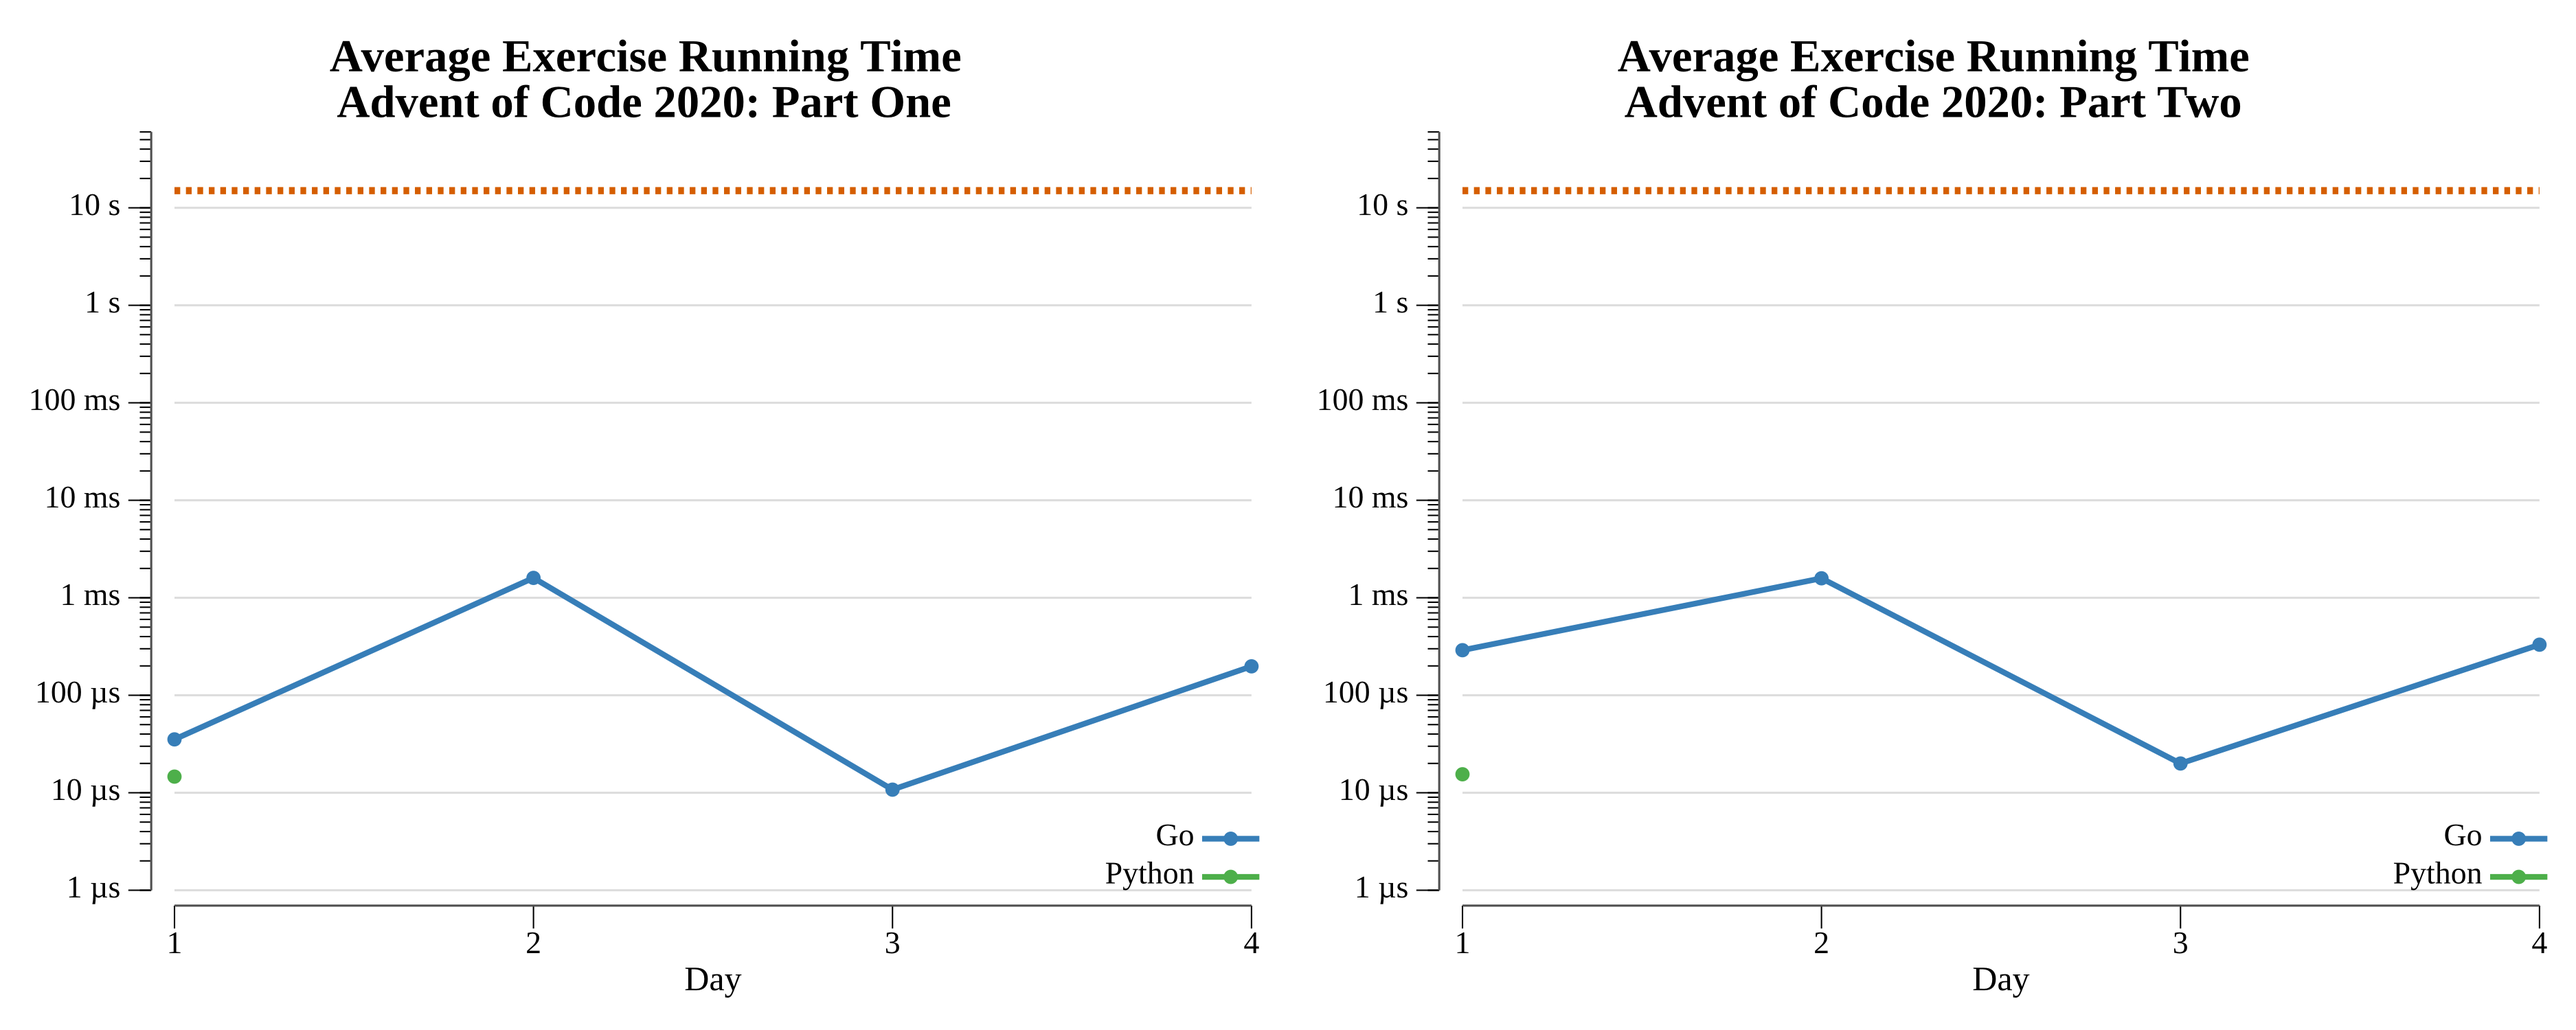
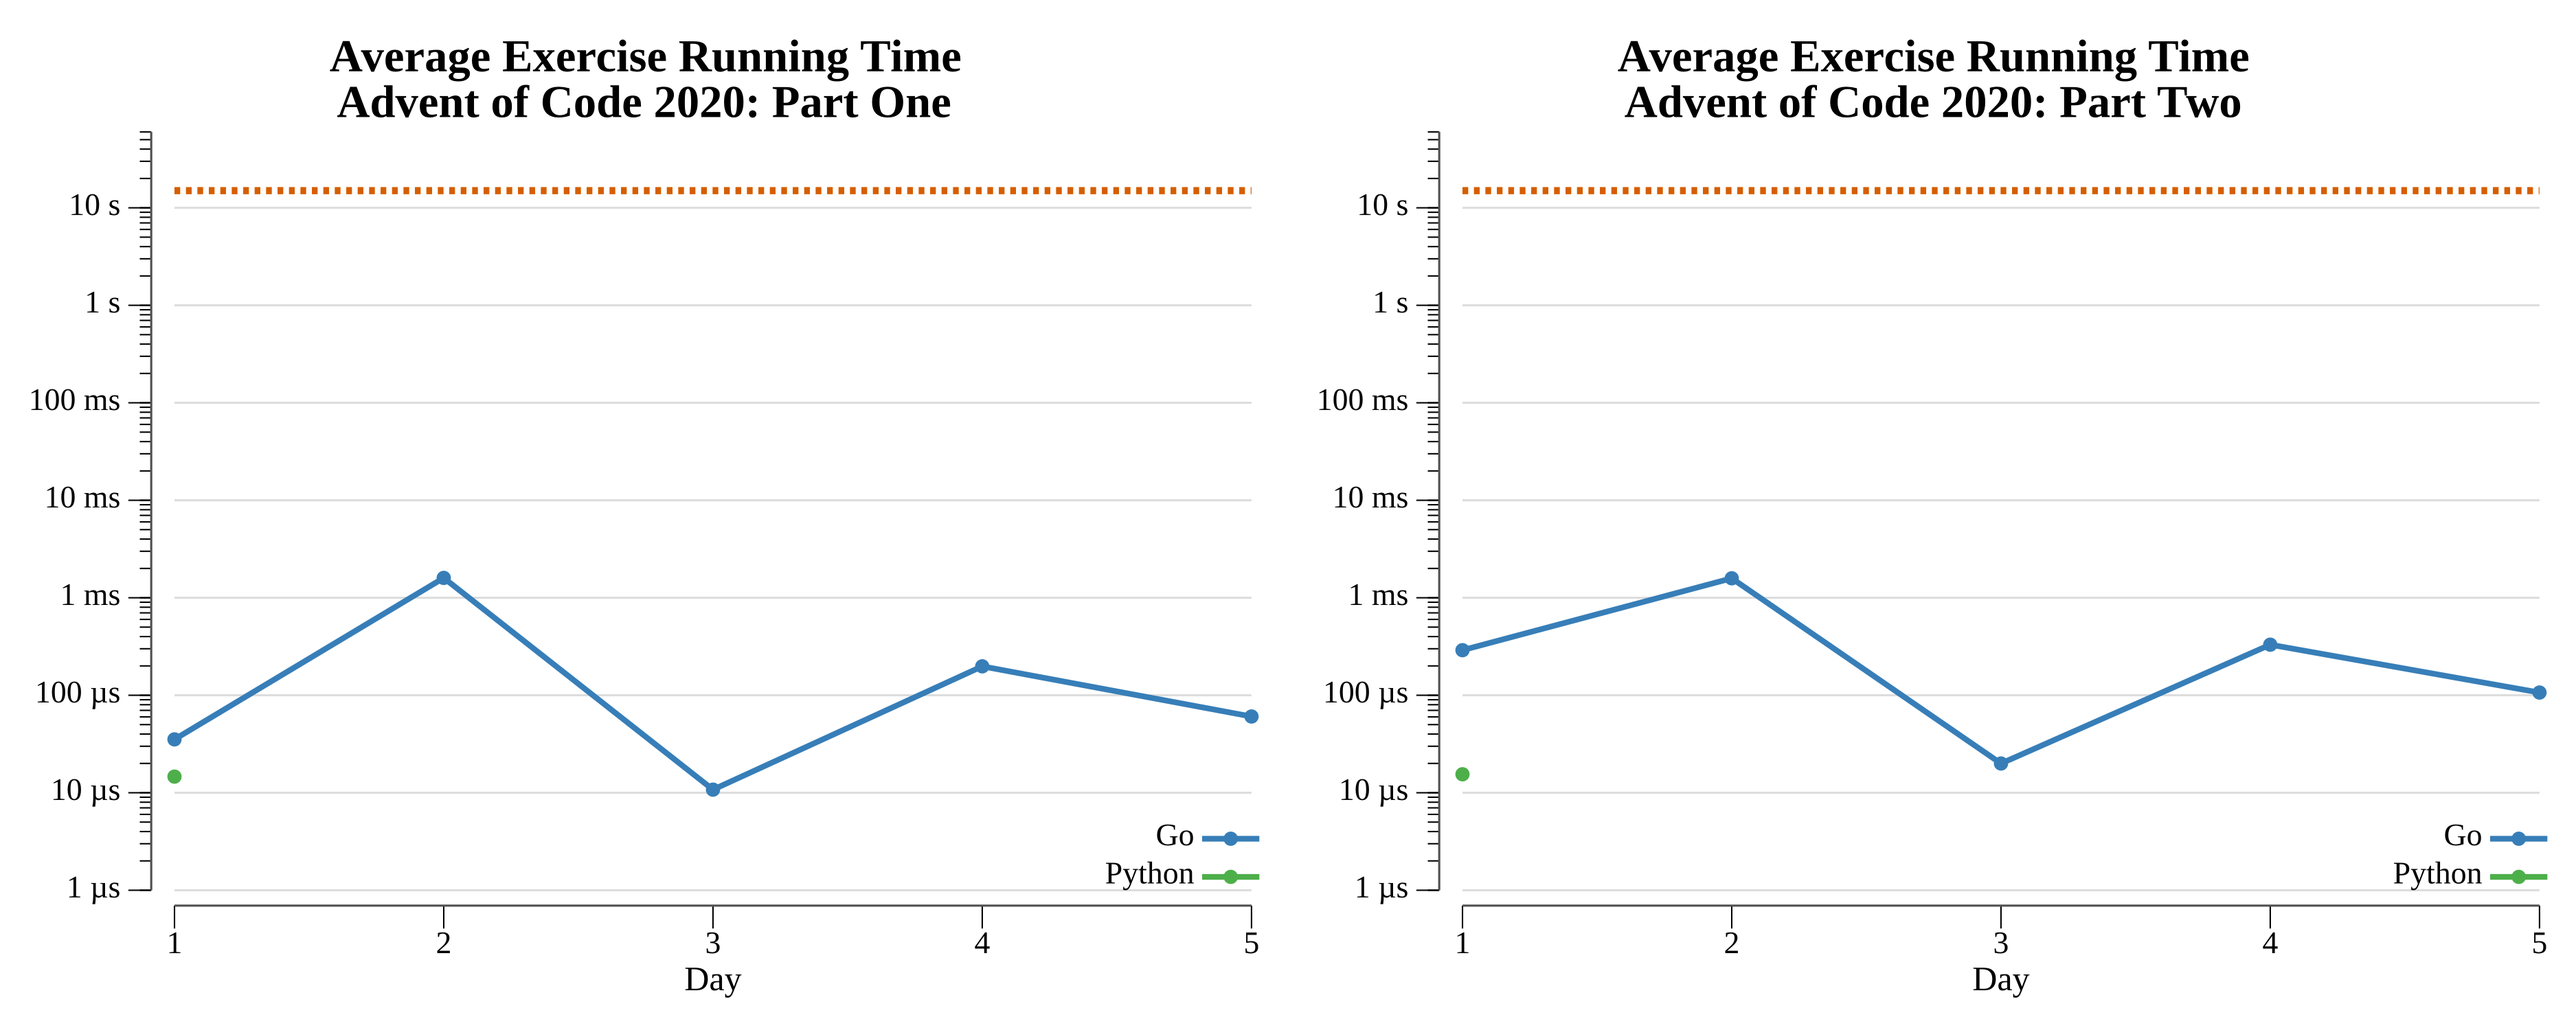
2020 day 5

diff --git a/exercises/2020/05-binaryBoarding/go/vis.go b/exercises/2020/05-binaryBoarding/go/vis.go
@@ -1,0 +1,109 @@
+package exercises
+
+import (
+	"image"
+	"image/color"
+	"image/png"
+	"os"
+	"path/filepath"
+)
+
+// Vis renders the plane as a seat grid where seat ID = row*8 + col, laid out with
+// the 128 rows running left-to-right and the 8 columns top-to-bottom (a wide
+// plane). Occupied seats are filled, empty seats are dark. The highest ID (Part
+// One) is outlined in orange and your seat — the one empty seat with both
+// neighbors occupied (Part Two) — is marked bright yellow. The front and back
+// rows are entirely empty, which is why the search brackets to the occupied
+// range. Highlights use a wide brightness gap and distinct marks, so they read in
+// grayscale.
+func (e Exercise) Vis(instr, outdir string) error {
+	ids := parse(instr)
+	present := map[int]bool{}
+	maxID, lo, hi := 0, 1<<10, 0
+	for _, id := range ids {
+		present[id] = true
+		if id > maxID {
+			maxID = id
+		}
+		if id < lo {
+			lo = id
+		}
+		if id > hi {
+			hi = id
+		}
+	}
+	mine := -1
+	for id := lo + 1; id < hi; id++ {
+		if !present[id] && present[id-1] && present[id+1] {
+			mine = id
+			break
+		}
+	}
+
+	const (
+		rows  = 128
+		cols  = 8
+		cell  = 10
+		gap   = 1
+		mLeft = 6
+		mTop  = 6
+	)
+	// Rows run horizontally (x), columns vertically (y): a wide plane.
+	W := mLeft*2 + rows*(cell+gap)
+	H := mTop*2 + cols*(cell+gap)
+
+	img := image.NewRGBA(image.Rect(0, 0, W, H))
+	bg := color.RGBA{0x11, 0x14, 0x18, 0xff}
+	for y := 0; y < H; y++ {
+		for x := 0; x < W; x++ {
+			img.SetRGBA(x, y, bg)
+		}
+	}
+
+	occupied := color.RGBA{0x00, 0x72, 0xB2, 0xff} // blue
+	empty := color.RGBA{0x20, 0x26, 0x2e, 0xff}    // dark
+	mineCol := color.RGBA{0xF0, 0xE4, 0x42, 0xff}  // bright yellow: your seat
+	maxCol := color.RGBA{0xE6, 0x9F, 0x00, 0xff}   // orange: highest ID
+
+	fill := func(px, py int, c color.RGBA) {
+		for dy := 0; dy < cell; dy++ {
+			for dx := 0; dx < cell; dx++ {
+				img.SetRGBA(px+dx, py+dy, c)
+			}
+		}
+	}
+	frame := func(px, py int, c color.RGBA) {
+		for d := 0; d < cell; d++ {
+			img.SetRGBA(px+d, py, c)
+			img.SetRGBA(px+d, py+cell-1, c)
+			img.SetRGBA(px, py+d, c)
+			img.SetRGBA(px+cell-1, py+d, c)
+		}
+	}
+
+	for r := 0; r < rows; r++ {
+		for c := 0; c < cols; c++ {
+			id := r*cols + c
+			px := mLeft + r*(cell+gap)
+			py := mTop + c*(cell+gap)
+			switch {
+			case id == mine:
+				fill(px, py, mineCol)
+			case present[id]:
+				fill(px, py, occupied)
+			default:
+				fill(px, py, empty)
+			}
+			if id == maxID {
+				frame(px, py, maxCol)
+			}
+		}
+	}
+
+	f, err := os.Create(filepath.Join(outdir, "binary-boarding.png"))
+	if err != nil {
+		return err
+	}
+	defer f.Close()
+	return png.Encode(f, img)
+}

diff --git a/exercises/2020/05-binaryBoarding/go/exercise.go b/exercises/2020/05-binaryBoarding/go/exercise.go
@@ -1,0 +1,70 @@
+package exercises
+
+import (
+	"fmt"
+	"strings"
+
+	"github.com/asphaltbuffet/advent-of-code/internal/common"
+)
+
+// Exercise for Advent of Code 2020 day 5.
+type Exercise struct {
+	common.BaseExercise
+}
+
+// seatID decodes a boarding pass as a 10-bit binary number: B/R are 1 bits, F/L
+// are 0. The row*8+col seat ID is exactly this value.
+func seatID(pass string) int {
+	id := 0
+	for i := 0; i < len(pass); i++ {
+		id <<= 1
+		if pass[i] == 'B' || pass[i] == 'R' {
+			id |= 1
+		}
+	}
+	return id
+}
+
+func parse(instr string) []int {
+	lines := strings.Split(strings.TrimSpace(instr), "\n")
+	ids := make([]int, 0, len(lines))
+	for _, line := range lines {
+		ids = append(ids, seatID(strings.TrimSpace(line)))
+	}
+	return ids
+}
+
+// One returns the highest seat ID on any boarding pass.
+func (e Exercise) One(instr string) (any, error) {
+	max := 0
+	for _, id := range parse(instr) {
+		if id > max {
+			max = id
+		}
+	}
+	return fmt.Sprintf("%d", max), nil
+}
+
+// Two finds the single empty seat whose neighbors (ID-1 and ID+1) are both
+// occupied — the missing ID inside the otherwise-contiguous range.
+func (e Exercise) Two(instr string) (any, error) {
+	present := map[int]bool{}
+	lo, hi := 1<<10, 0
+	for _, id := range parse(instr) {
+		present[id] = true
+		if id < lo {
+			lo = id
+		}
+		if id > hi {
+			hi = id
+		}
+	}
+
+	for id := lo + 1; id < hi; id++ {
+		if !present[id] && present[id-1] && present[id+1] {
+			return fmt.Sprintf("%d", id), nil
+		}
+	}
+
+	return nil, fmt.Errorf("no missing seat found")
+}

diff --git a/exercises/2020/05-binaryBoarding/README.md b/exercises/2020/05-binaryBoarding/README.md
@@ -1,0 +1,51 @@
+# [Day 5: Binary Boarding](https://adventofcode.com/2020/day/5)
+
+<!-- These are helper text to make formatting the yearly readme consistent and easier...
+
+[Day 5: Binary Boarding][rm5]
+[Go][go5]
+
+[rm5]: 05-binaryBoarding/README.md
+[go5]: 05-binaryBoarding/go
+
+-->
+
+## Notes
+
+Each boarding pass is binary space partitioning, but the row/column split is a
+red herring: a pass is just a 10-bit number with `B`/`R` as 1 and `F`/`L` as 0,
+and the seat ID `row*8 + col` is exactly that number (the column is the low three
+bits, the row the high seven). Decoding is a single pass over the characters.
+
+- **Part One** is the highest seat ID.
+- **Part Two** is your seat: the one empty ID whose neighbors (ID-1 and ID+1) are
+  both occupied, searched only within the occupied range so the empty front and
+  back rows are ignored.
+
+## Go
+
+```text
+────────────────────────────────────────
+─     2020 Day 5: Binary Boarding      ─
+────────────────────────────────────────
+
+Solving (Go)…
+1.0:  PASS            55.722µs
+2.0:  PASS           103.569µs
+```
+
+## Visualization
+
+The plane as a seat grid (seat ID = row*8 + col), with the 128 rows running
+left-to-right and the 8 columns top-to-bottom. Occupied seats are blue, empty
+seats dark; the empty front and back rows are why the Part Two search brackets to
+the occupied range. The highest ID (Part One) is outlined in orange, and your
+seat (Part Two) is the bright yellow cell — the lone empty seat surrounded by
+occupied ones. The highlights use a wide brightness gap, so they read in
+grayscale.
+
+![Seat map with highest ID and your seat](binary-boarding.png)
+
+## Run Times
+
+![Day 5 run-time graphs](run-times.png)

diff --git a/exercises/2020/README.md b/exercises/2020/README.md
@@ -10,7 +10,7 @@
 | [Day 2: Password Philosophy][rm_2] |  ★ ★  | [Go][go_2] |
 | [Day 3: Toboggan Trajectory][rm_3] |  ★ ★  | [Go][go_3] |
 | [Day 4: Passport Processing][rm_4] |  ★ ★  | [Go][go_4] |
-| 5                            |  ☆ ☆  |            |
+| [Day 5: Binary Boarding][rm_5] |  ★ ★  | [Go][go_5] |
 | 6                            |  ☆ ☆  |            |
 | 7                            |  ☆ ☆  |            |
 | 8                            |  ☆ ☆  |            |
@@ -40,6 +40,8 @@
 [go_3]: 03-tobogganTrajectory/go
 [rm_4]: 04-passportProcessing/README.md
 [go_4]: 04-passportProcessing/go
+[rm_5]: 05-binaryBoarding/README.md
+[go_5]: 05-binaryBoarding/go
 
 ## 2020 Run Times
 
